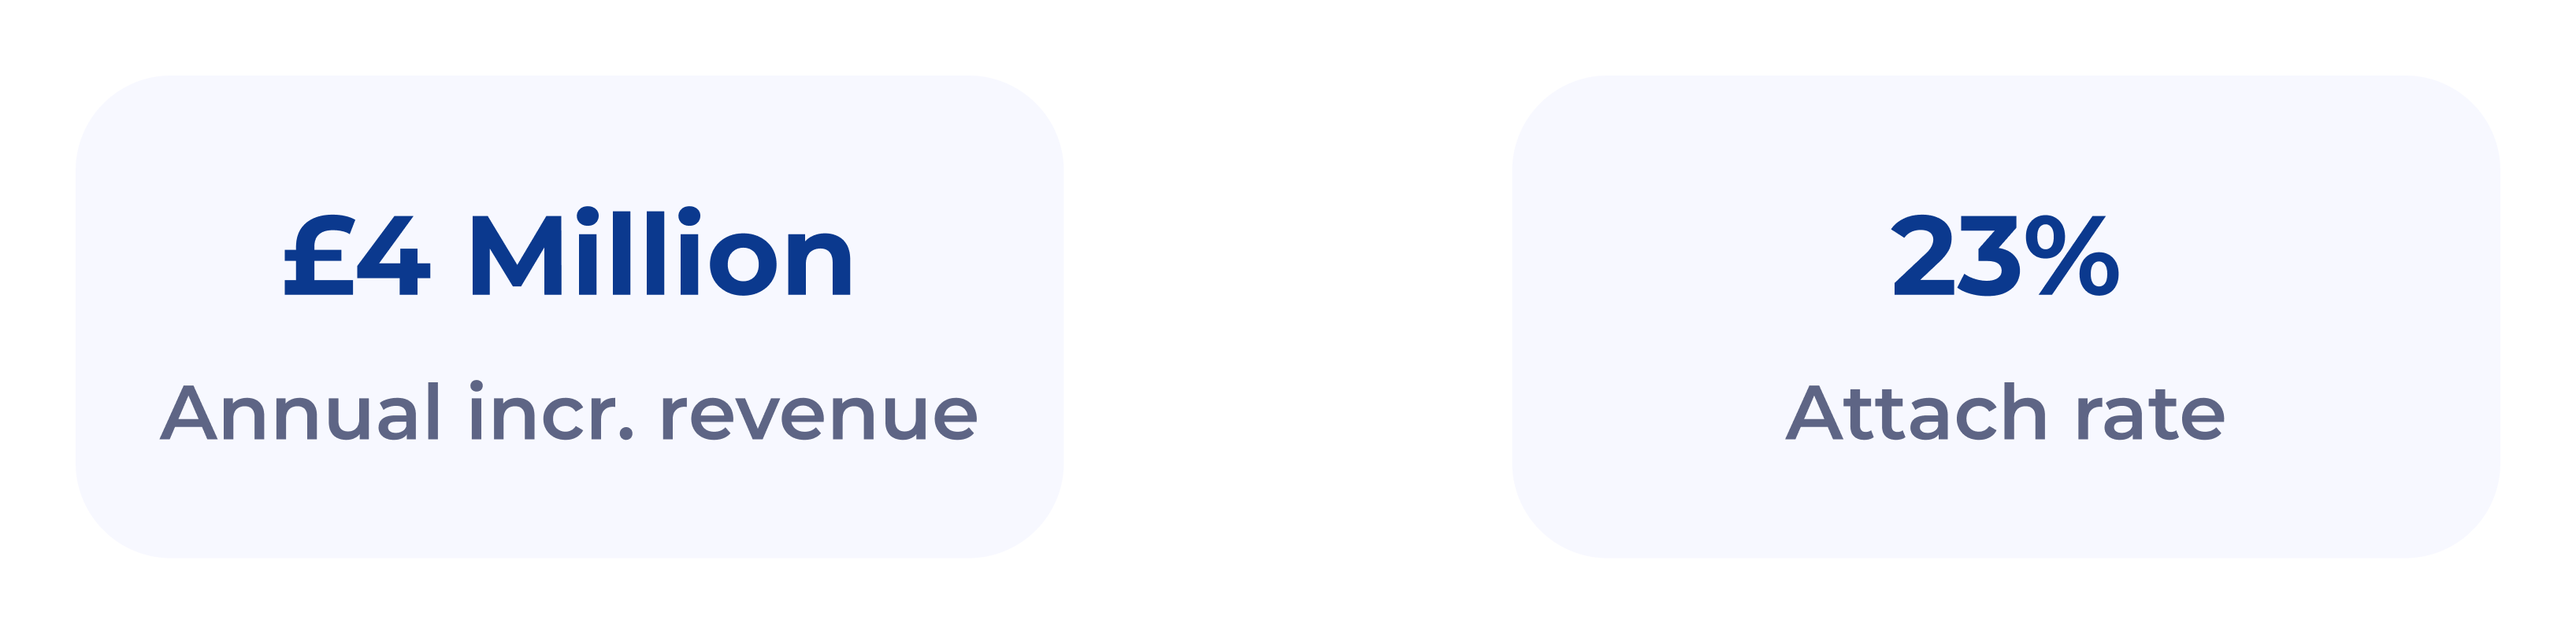
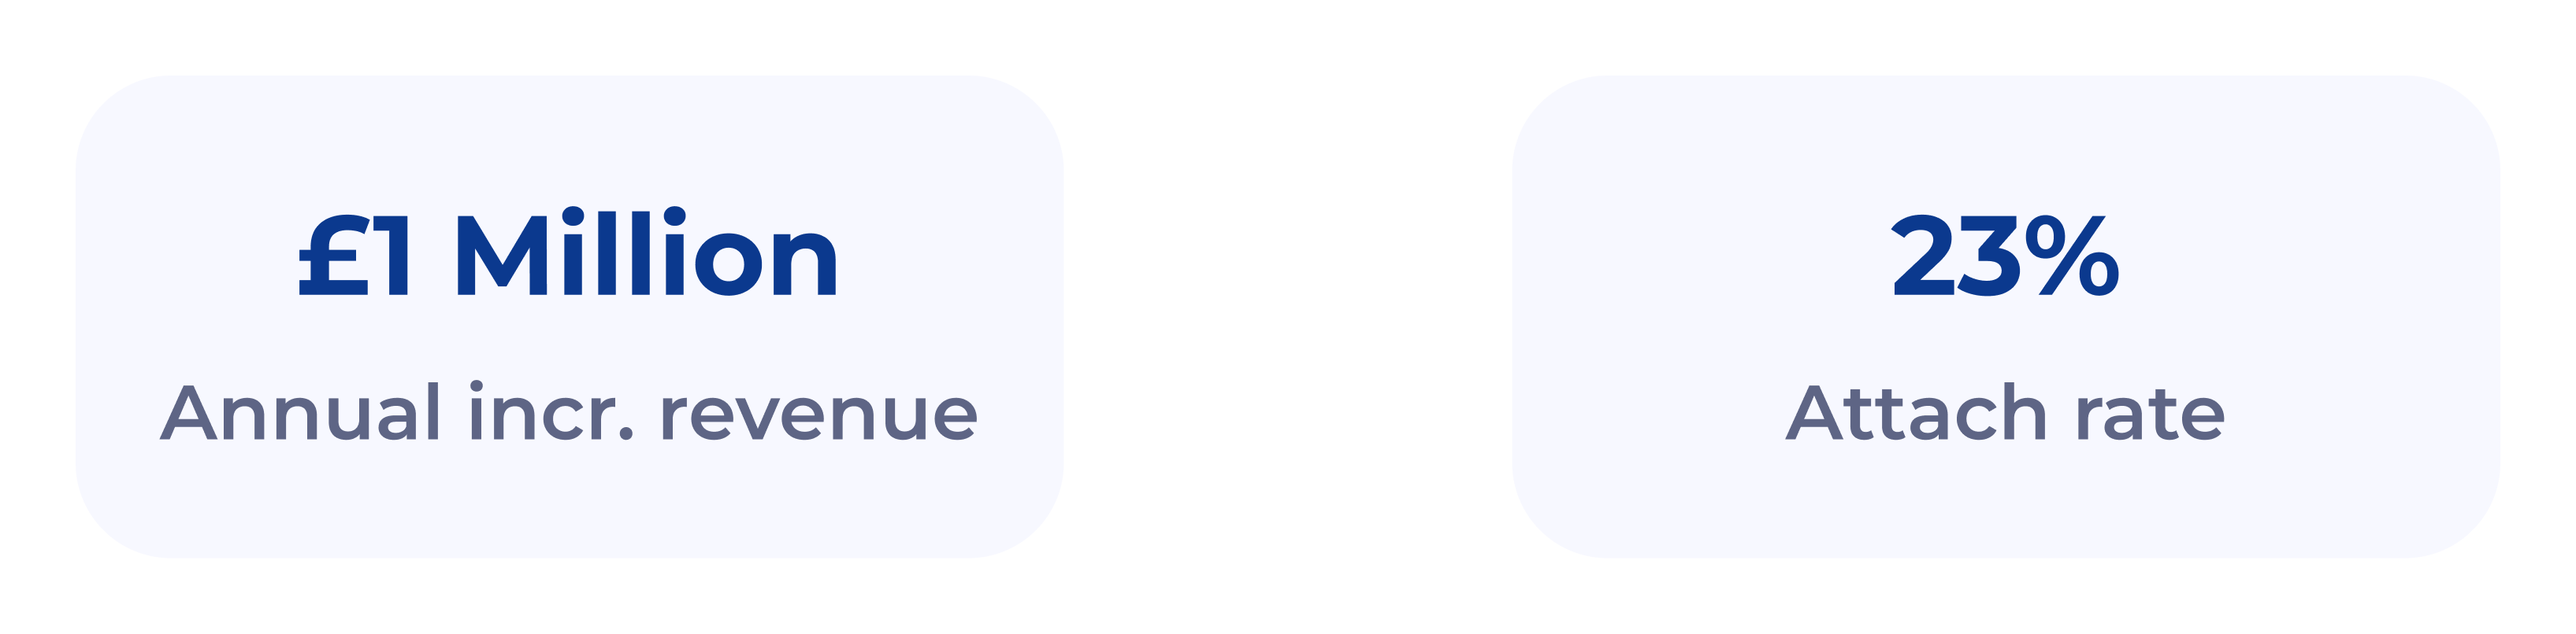
flex canx metrics

Changed region(s): [[0.0936, 0.3102, 0.3431, 0.4653]]

diff --git a/flex_canx.html b/flex_canx.html
@@ -49,8 +49,8 @@
         <!-- Case Study -->
         <div class="case-study">
             <img class="hero" src="images/flex-canx-thumb.png"><br>
-            <h1 id="summary" class="section">Flexible Bookings</h1>
-            <h2>How reducing booking anxiety drove<br> £4 million in annual incremental revenue</h2>
+            <h1 id="summary" class="section">Flexible Cancellations</h1>
+            <h2>How reducing booking anxiety drove<br> £1 million in estimated annual incremental revenue</h2>
             
             <p>
                 This case study is written as a <i>behind the scenes</i> story to give you a better idea of what it's like to work with me, <strong>with a focus on decision making, stakeholder alignment and trade-offs</strong> required to deliver the initiative.
@@ -84,7 +84,7 @@
                     • I defined the <strong>North Star</strong>, aligned Product, Engineering, Legal, Marketing and Commercial stakeholders, and guided decisions that <strong>balanced customer trust, commercial impact and experience risk</strong>.
                 <p>    
                     <strong>📈 Success metrics:</strong><br>
-                    • Estimated £4 million annual incremental revenue<br>
+                    • Estimated £1 million annual incremental revenue<br>
                     • 23% attach rate (vs 15% target)<br>
                     
                 </p>

diff --git a/index.html b/index.html
@@ -200,10 +200,10 @@
                     <a href="flex_canx.html"><img class="flex-canx-thumb" src="images/flex-canx-thumb.png"></a>
                     <div class="wrapper-title">
                     <div class="title">
-                        <div class="title-text"><a class="clickable" href="flex_canx.html">Flexible Bookings</a></div>
+                        <div class="title-text"><a class="clickable" href="flex_canx.html">Flexible Cancellations</a></div>
                     </div>
                     </div>
-                    <p><a class="clickable" href="flex_canx.html">How reducing booking anxiety drove £4 million in annual incremental revenue.</a></p>
+                    <p><a class="clickable" href="flex_canx.html">How reducing booking anxiety drove £1 million in estimated annual incremental revenue.</a></p>
                 </div> 
 
                 <div class="card">
